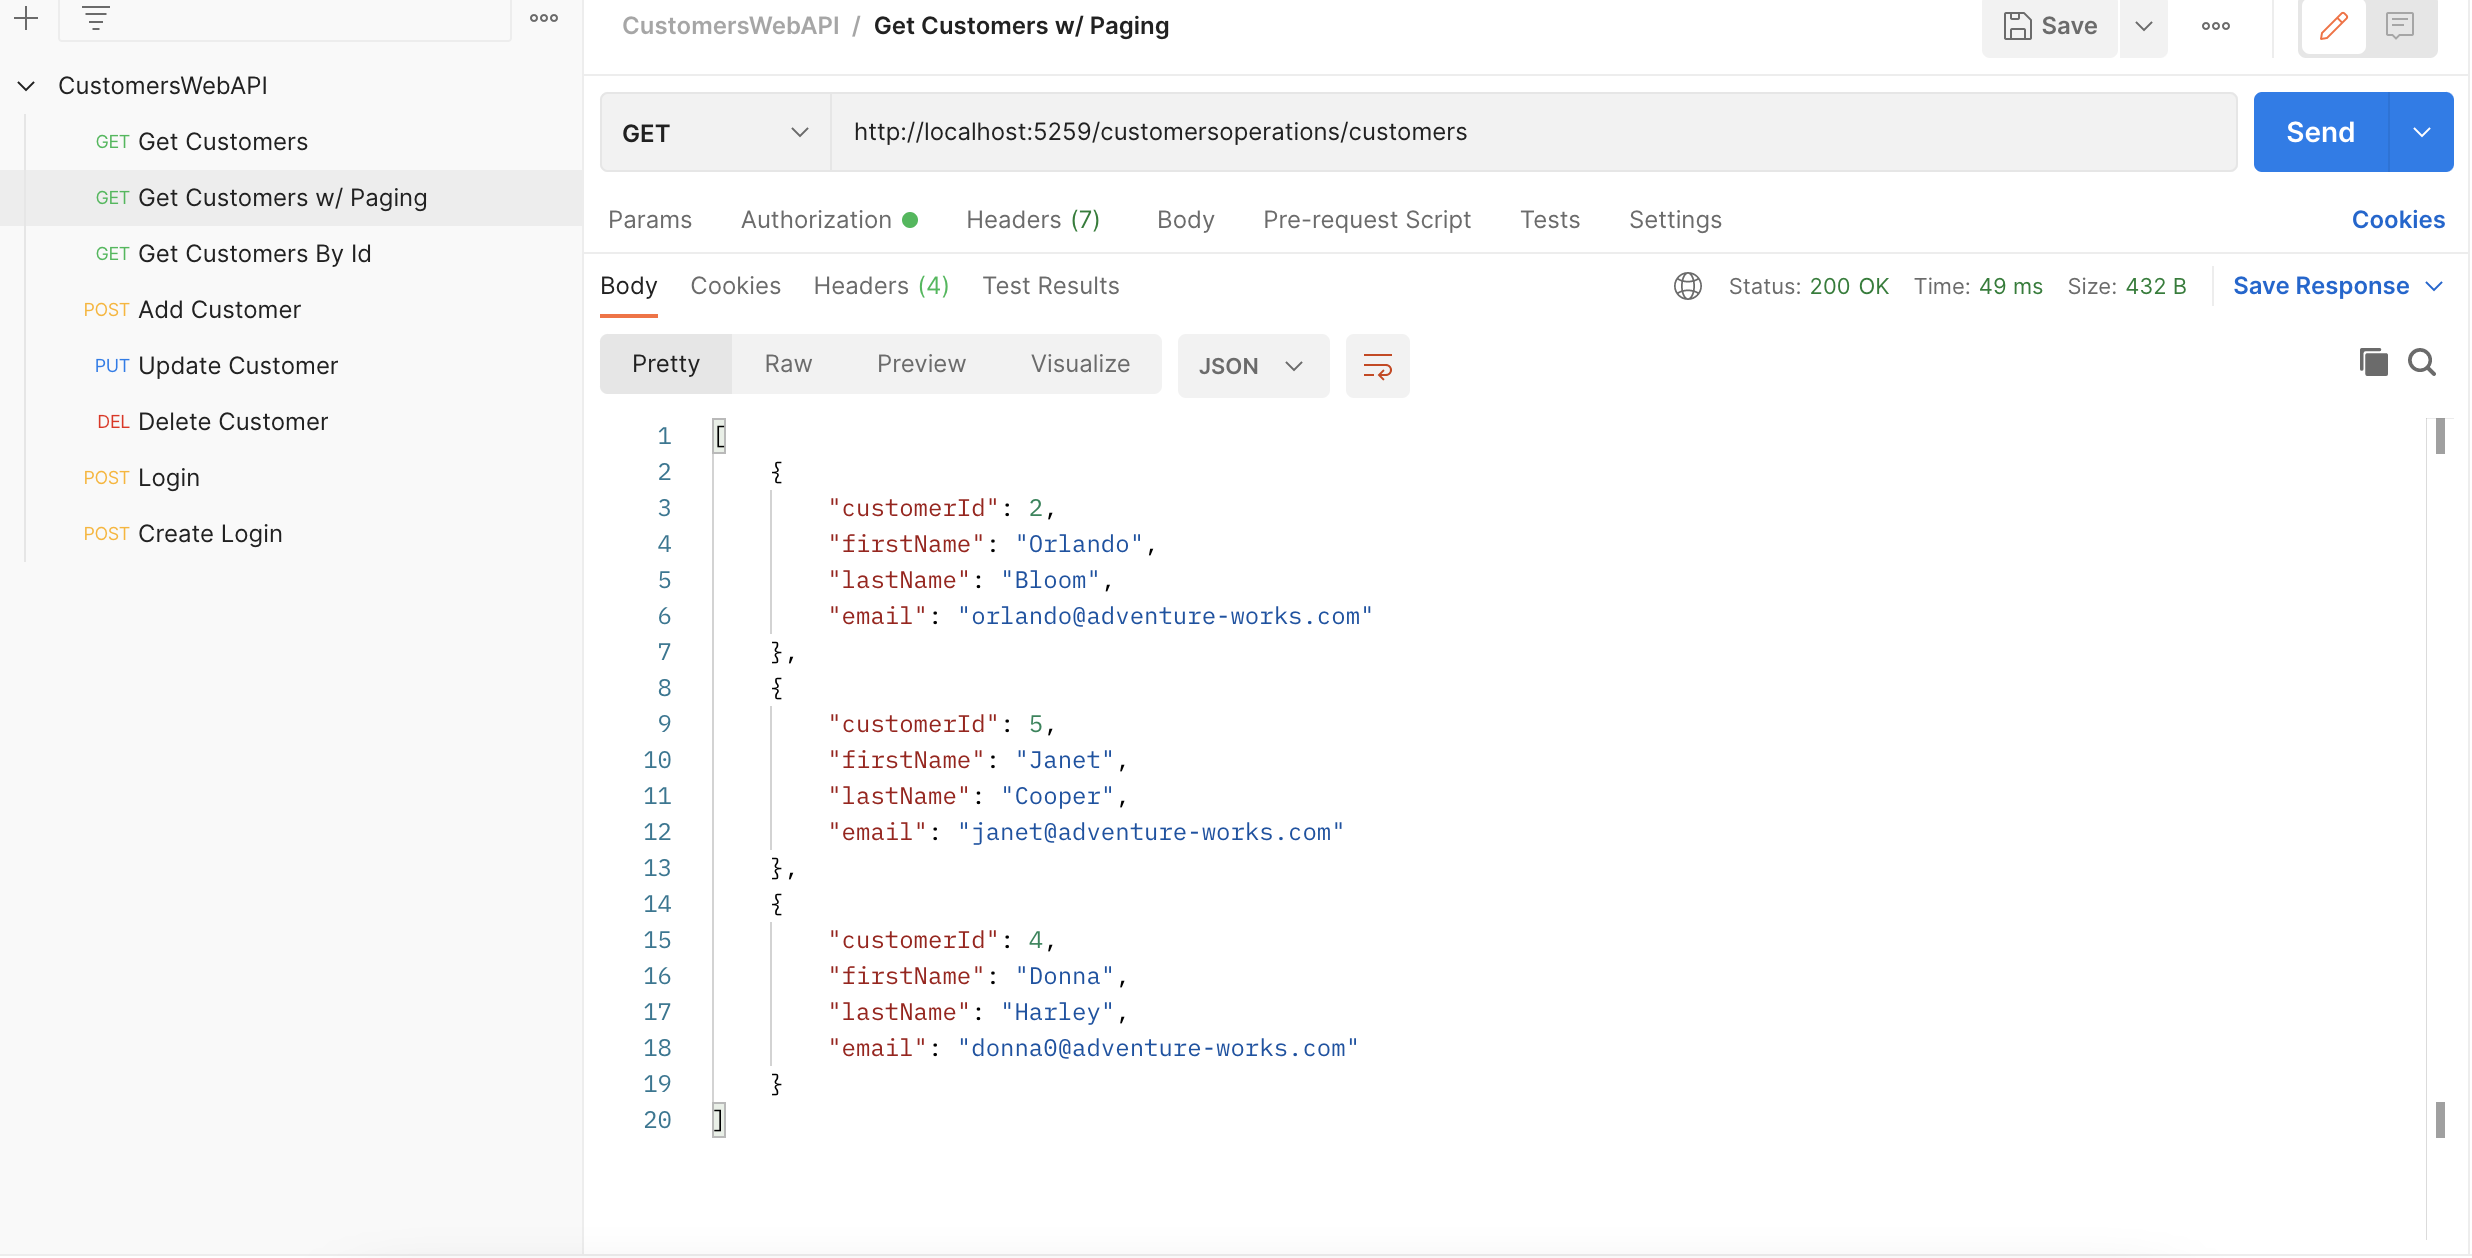
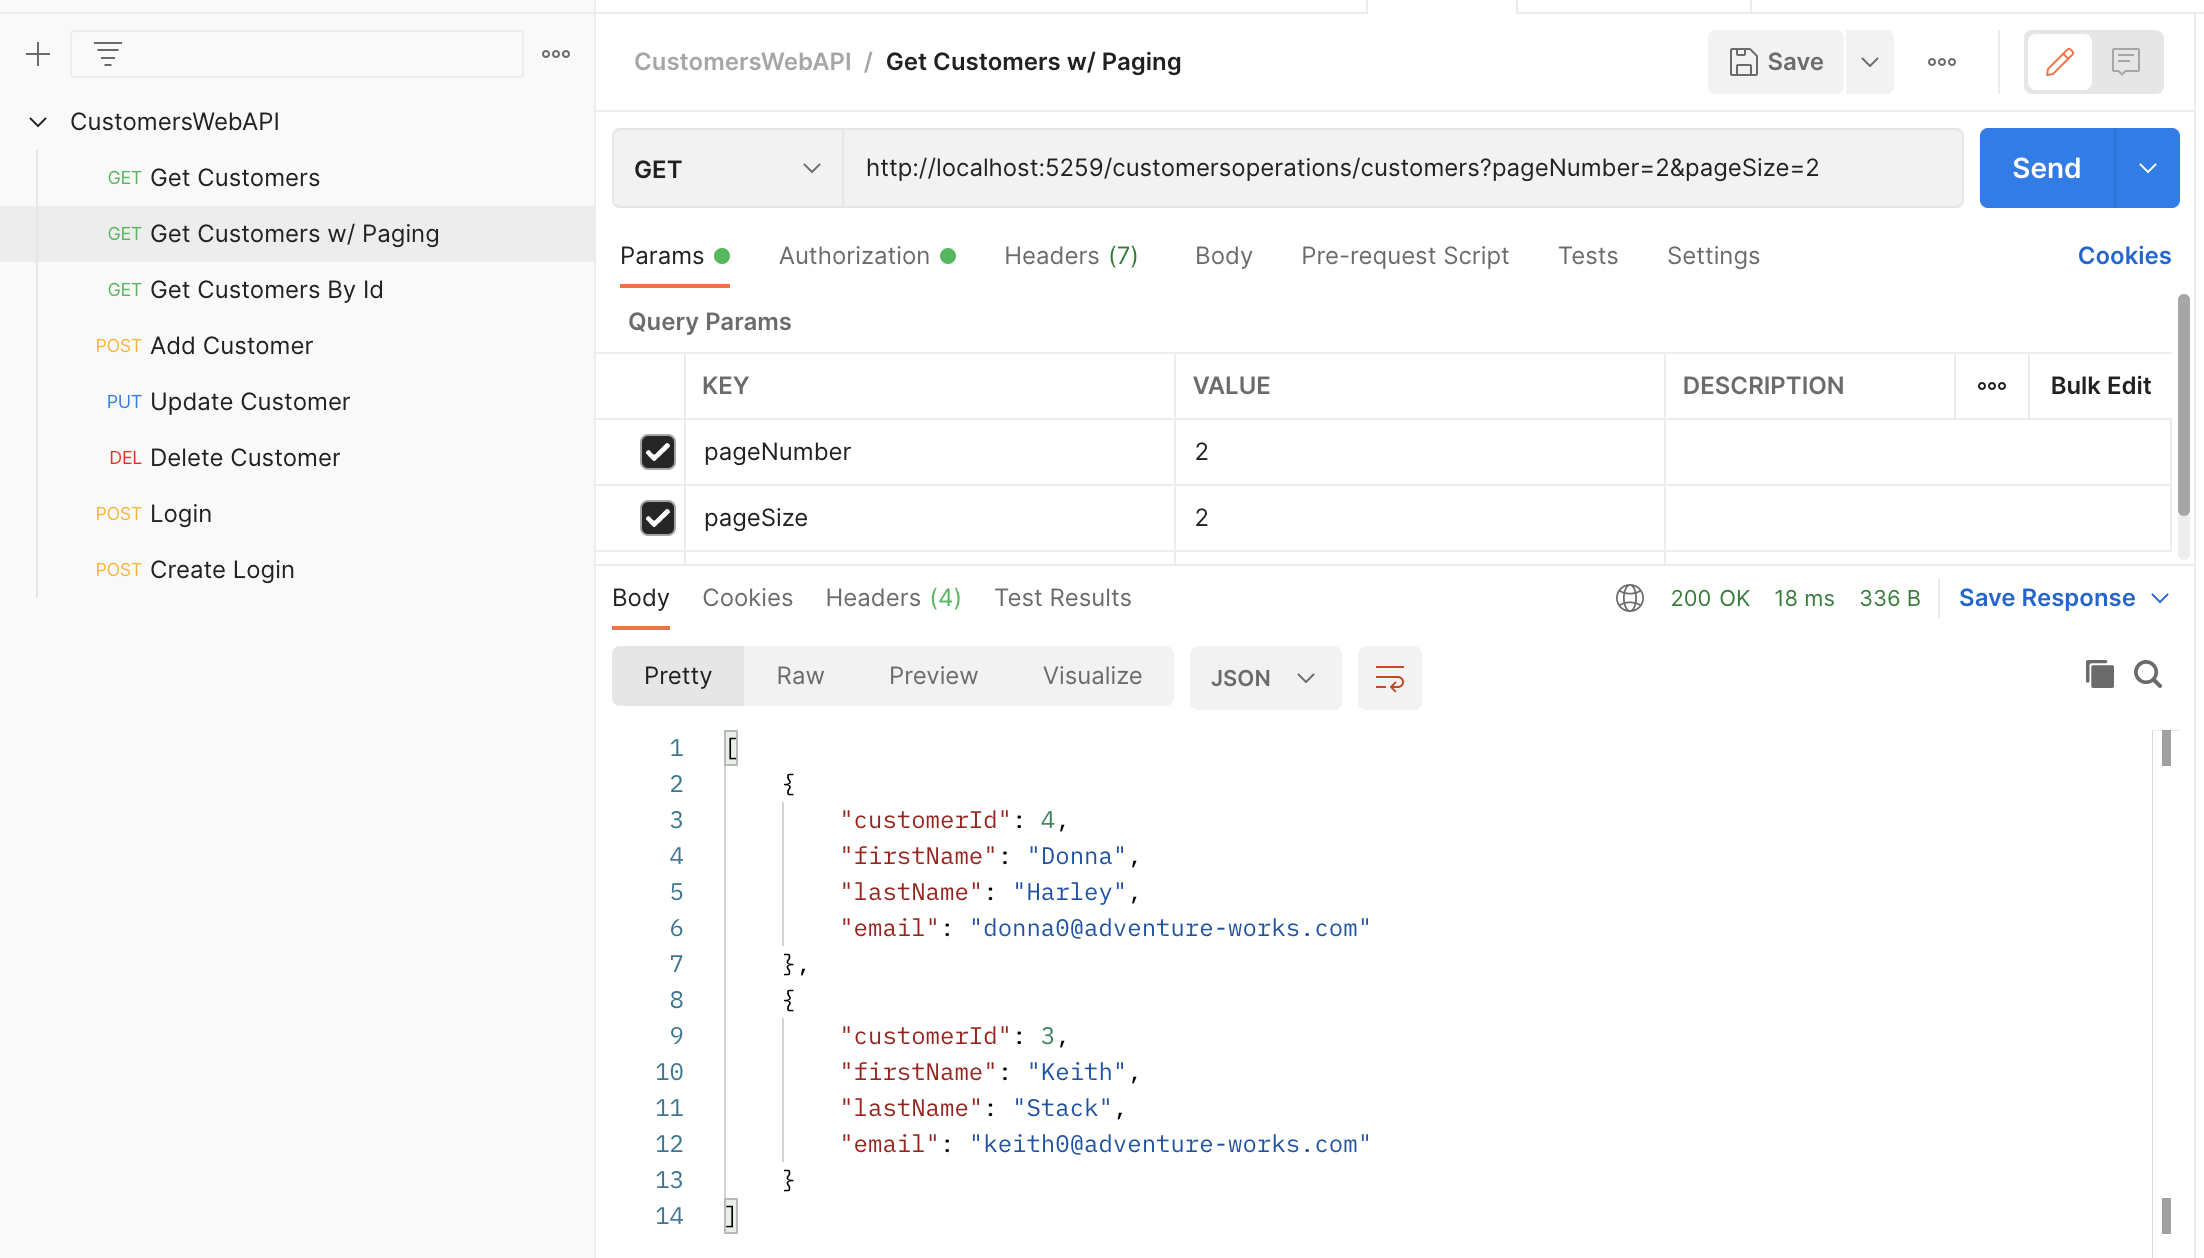
add paging

diff --git a/Homework-5/CustomersWebAPI/Controllers/CustomersOperationsController.cs b/Homework-5/CustomersWebAPI/Controllers/CustomersOperationsController.cs
@@ -29,8 +29,8 @@ namespace CustomersWebAPI.Controllers
         public IActionResult GetCustomersPaging([FromQuery] Paging paging)
         {
             
-            paging.PageNumber = 0;
-            paging.PageSize = 3;
+            //paging.PageNumber = 0;
+            //paging.PageSize = 3;
 
             var owners = dbOperation.GetCustomers() 
                                                

diff --git a/Homework-5/CustomersWebAPI/Paging.cs b/Homework-5/CustomersWebAPI/Paging.cs
@@ -6,7 +6,7 @@ namespace CustomersWebAPI
         const int maxPageSize = 50;
         public int PageNumber { get; set; } = 1;
 
-        private int _pageSize = 2;
+        private int _pageSize = 3;
         public int PageSize
         {
             get
